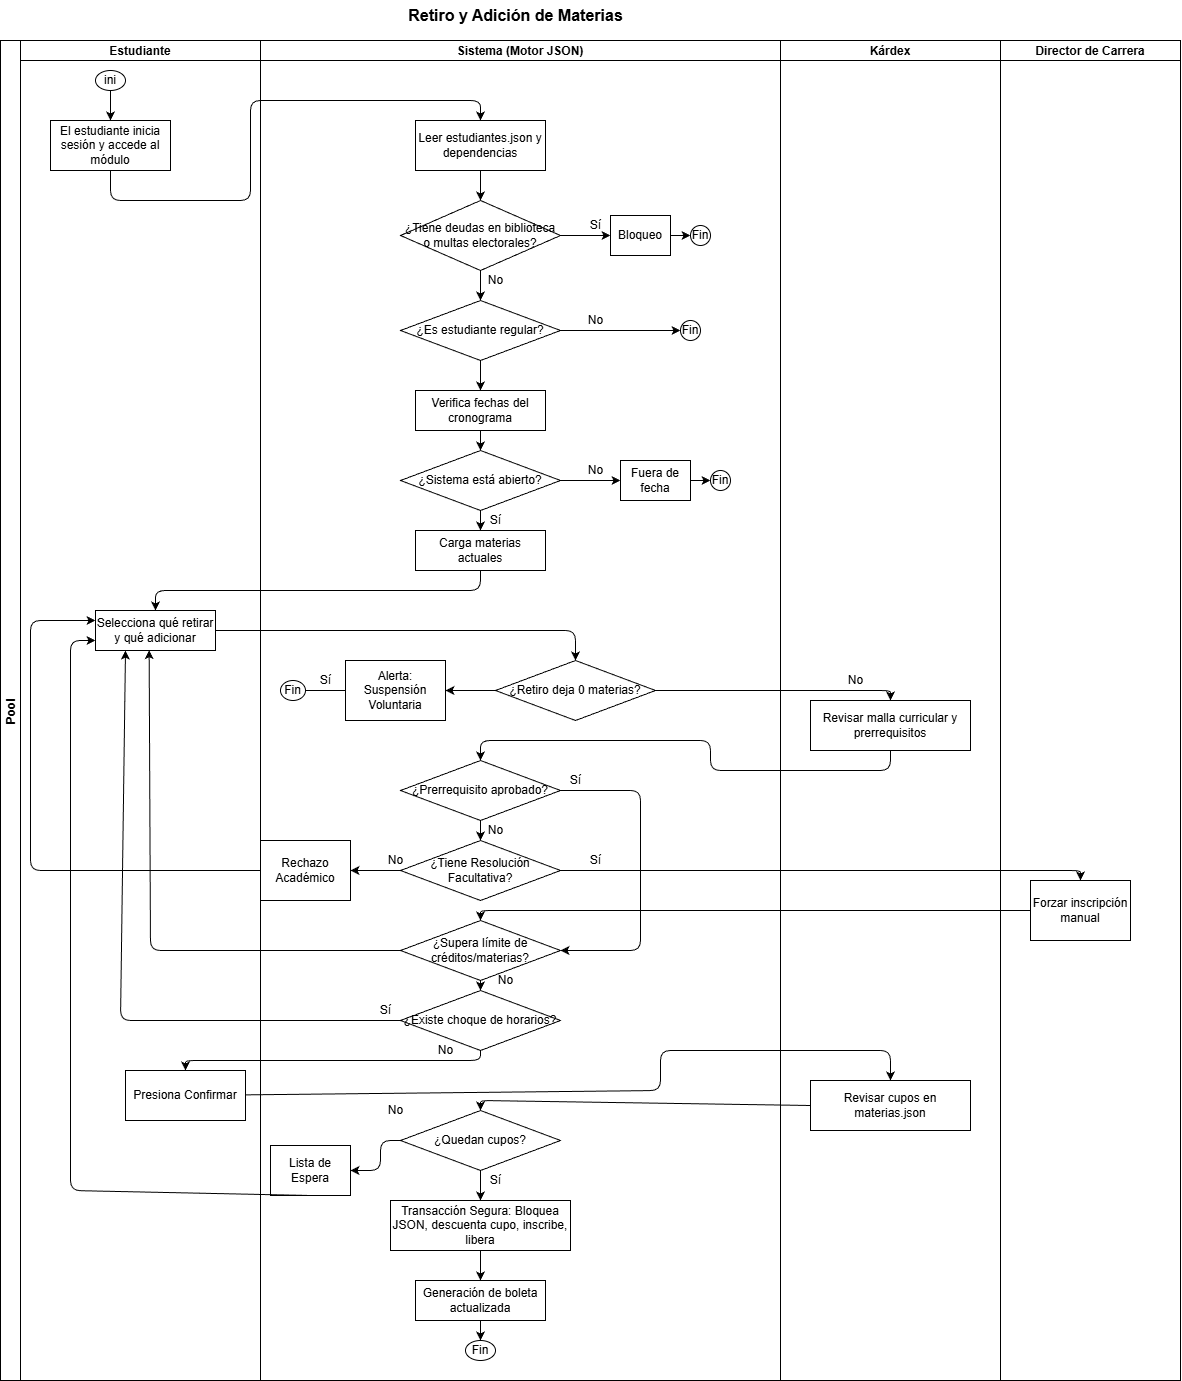
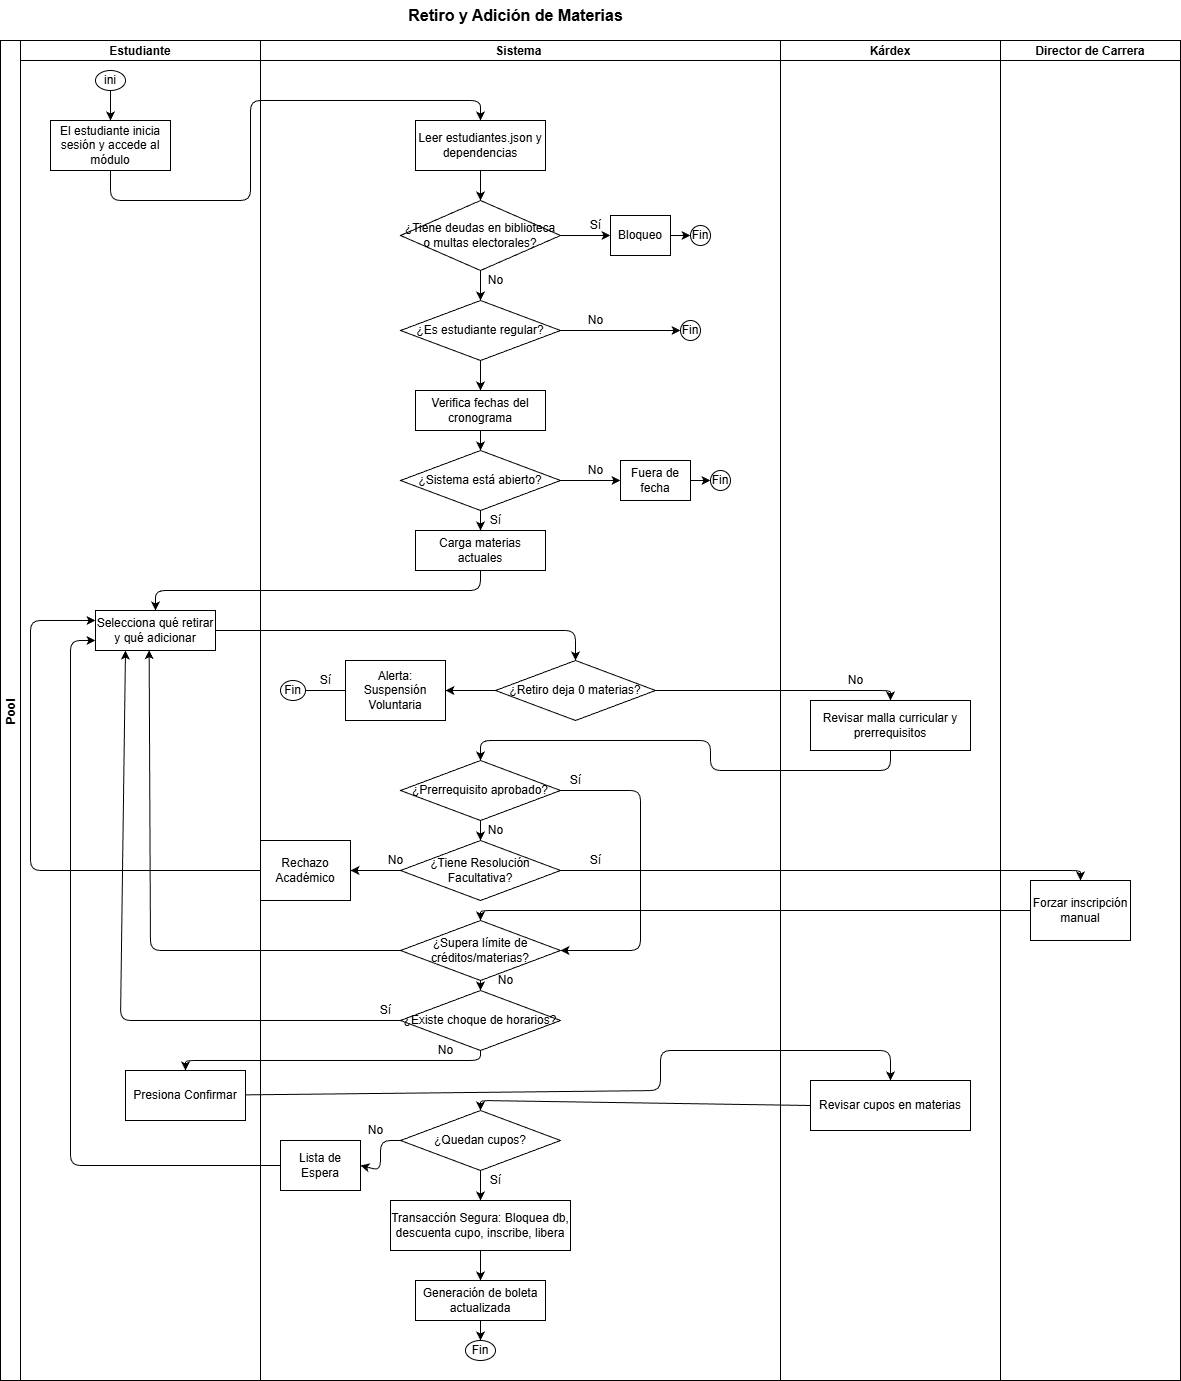
revision de sintaxis

diff --git a/01_Tramites_UMSA/retiro_y_adicion_de_materias/d1.md b/01_Tramites_UMSA/retiro_y_adicion_de_materias/d1.md
@@ -3,28 +3,23 @@
 
 Este modelo contempla los bloqueos institucionales, límites académicos y la concurrencia de datos.
 
-**Actores (Carriles):** Estudiante | Sistema (Motor JSON) | Kárdex | Director de Carrera
+**Actores (Carriles):** Estudiante | Sistema (Motor JSON BPM)
 
 * **P1 (Inicio):** El estudiante inicia sesión y accede al módulo.
-* **P2 (Validación de Estado Institucional):** El sistema consulta `estudiantes.json` y dependencias.
+* **P2 (Validación de Estado Institucional):** El sistema consulta `estudiantes.json` automáticamente.
 * *¿Tiene deudas en biblioteca o multas electorales?* $\rightarrow$ **Sí:** Notificación de bloqueo $\rightarrow$ **Fin**.
 * *¿Es estudiante regular (matriculado en la gestión actual)?* $\rightarrow$ **No:** Bloqueo $\rightarrow$ **Fin**.
 * *Sí a todo:* Avanza.
 
-
 * **P3 (Validación de Cronograma):** El sistema verifica fechas.
 * *¿El sistema está abierto?* $\rightarrow$ **No:** Notificación de fuera de fecha $\rightarrow$ **Fin**.
-
 
 * **P4 (Interacción):** El sistema carga las materias actuales. El estudiante selecciona qué retirar y qué adicionar (ej. retirar MAT-114, adicionar INF-121).
 * **P5 (Validación Límite de Retiros):**
 * *¿El retiro lo deja con 0 materias inscritas?* $\rightarrow$ **Sí:** Alerta "Debe hacer trámite de Suspensión Voluntaria, no retiro" $\rightarrow$ **Fin**.
 
-
-* **P6 (Validación Académica de Adición):** El sistema revisa la malla curricular en el JSON.
-* *¿Tiene el prerrequisito aprobado?* $\rightarrow$ **No:**
-* *¿Tiene Resolución Facultativa de levantamiento de prerrequisito?* $\rightarrow$ **Sí:** Pasa al carril de **Director de Carrera** para forzar la inscripción manual.
-* *No:* Rechazo $\rightarrow$ Retorna a P4.
+* **P6 (Validación Académica de Adición):** El sistema revisa la malla curricular (`materias.json`).
+* *¿Tiene el prerrequisito aprobado?* $\rightarrow$ **No:** El sistema rechaza la solicitud automáticamente por falta de prerrequisito $\rightarrow$ Retorna a P4.
 
 
 * *¿Supera el límite de materias/créditos permitidos por semestre (ej. más de 7 materias)?* $\rightarrow$ **Sí:** Rechazo $\rightarrow$ Retorna a P4.
